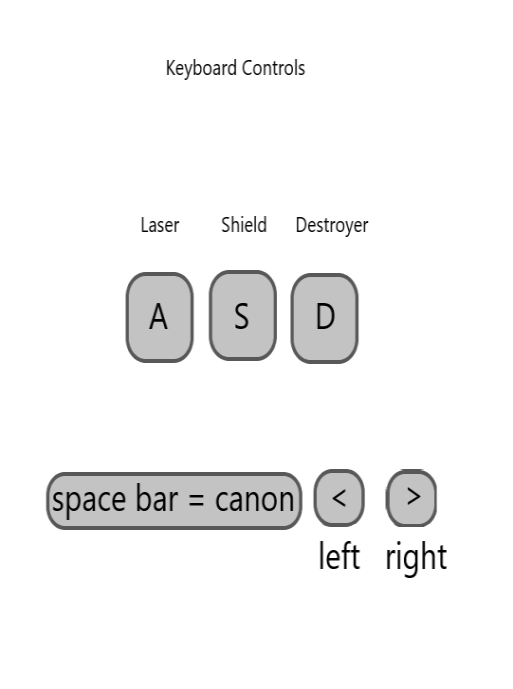
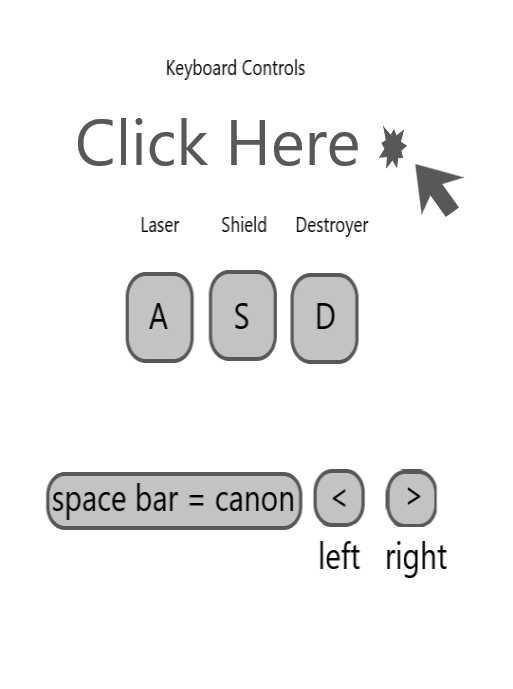
change the front instruction pages

Changed region(s): [[0.1559, 0.1524, 0.4055, 0.2438], [0.4366, 0.1524, 0.7173, 0.2438], [0.7485, 0.1829, 0.9045, 0.3353]]

diff --git a/index.js b/index.js
@@ -1250,13 +1250,14 @@ class Game {
     this.rows = 2;
     this.playerGone = false;
     this.player.radius = 0;
-
+    this.bossBombsPool = [];
     this.waves = [];
     this.bossArray = [];
     this.bossLives = 10;
     this.waves.push(new Wave(this, this.bossLives));
     // this.bossArray.push(new Boss(this));
     this.createProjectiles();
+    this.createBossBombs();
     this.waveCount = 1;
     this.score = 0;
     this.gameOver = false;
@@ -1279,10 +1280,11 @@ window.addEventListener('load', function() {
   const shield = document.getElementById('shield');
   const overlay = document.getElementById('overlay');
 
-
   overlay.addEventListener('click', function(){
-    overlay.style.display ="none";
+    overlay.style.display = 'none';
   });
+
+
 
   // console.log(mega_beam.style);
 

diff --git a/styles.css b/styles.css
@@ -44,6 +44,37 @@ body{
   color: white;
 }
 
+/* #easy{
+  display: inline-block;
+  position: relative;
+  top: 17%;
+  left: 44.5%;
+  background-color: white;
+  border-radius: 10%;
+  border: 2px solid gray;
+  font-size: 1em;
+  font-weight: bolder;
+  z-index: 4;
+  width: 80px;
+  height: 45px;
+  color: black;
+} */
+/* #hard{
+  display: inline-block;
+  position: relative;
+  top: 23%;
+  left: 32%;
+  background-color: white;
+  border-radius: 10%;
+  border: 2px solid gray;
+  font-size: 1em;
+  font-weight: bolder;
+  z-index: 4;
+  width: 80px;
+  height: 45px;
+  color: black;
+} */
+
 #canvas1{
   user-select: none;
   border: 5px solid black;

diff --git a/index.html b/index.html
@@ -10,7 +10,9 @@
 <body>
   <canvas id="canvas1"></canvas>
   <div id="overlay">
-    <button id="clear-overlay" type="button">Remove Instructions</button>
+    <!-- <button id="clear-overlay" type="button">Remove Instructions</button> -->
+    <!-- <button id="easy" type="button">Easy</button> -->
+    <!-- <button id="hard"type="button">Harder</button> -->
   </div>
 
   <img id="player" src="assets/player.png" alt="">
